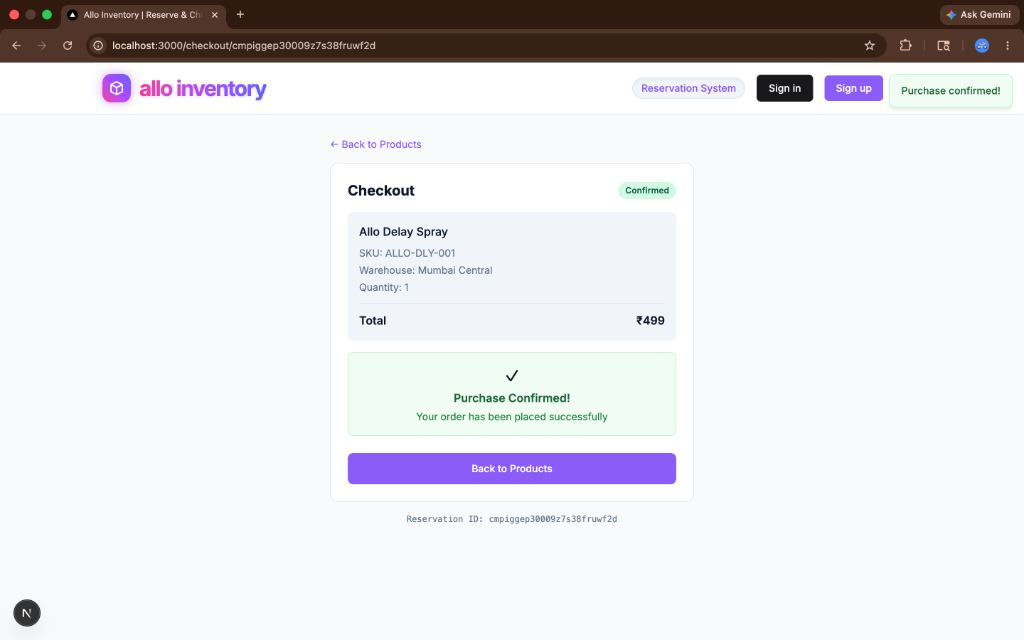
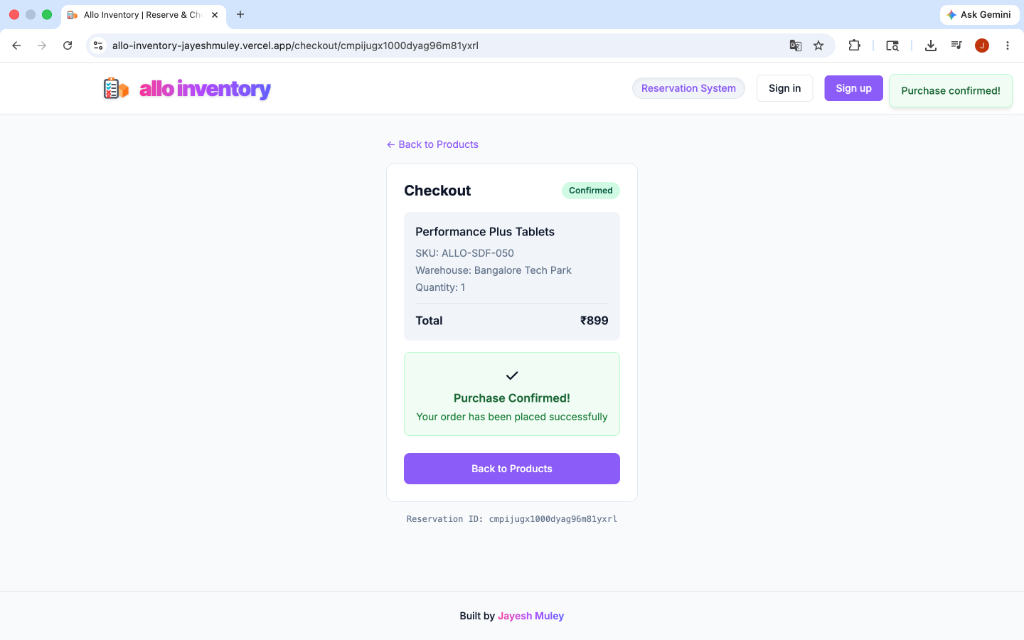
docs: add new screenshots showcasing error handling and checkout states

diff --git a/README.md b/README.md
@@ -16,6 +16,10 @@ A multi-warehouse inventory reservation platform built with Next.js, demonstrati
 ![Reserve Modal](./public/screenshots/reserve-modal.png)
 ![Checkout Pending](./public/screenshots/checkout-pending.png)
 ![Checkout Confirmed](./public/screenshots/checkout-confirmed.png)
+![Reservation Cancelled](./public/screenshots/checkout-cancelled.png)
+
+### Error Handling & Edge Cases
+![Out of Stock Error](./public/screenshots/out-of-stock-error.png)
 
 ### Authentication
 ![Sign In](./public/screenshots/sign-in.png)